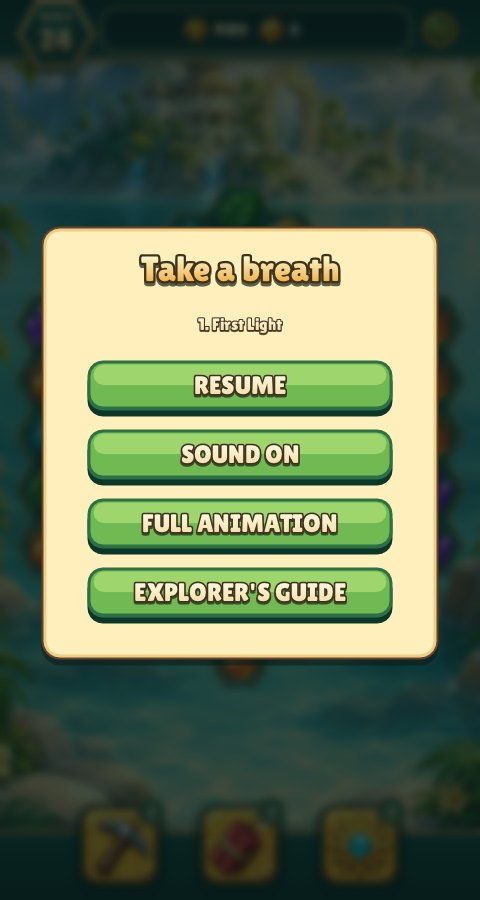
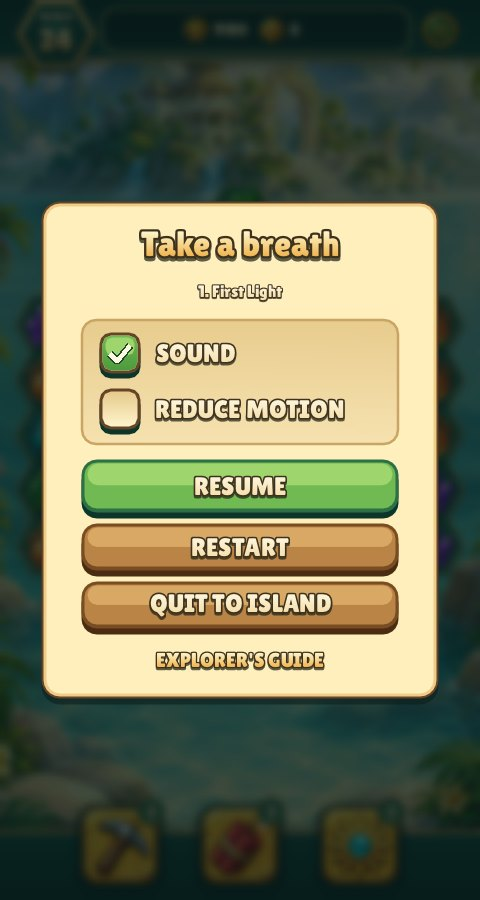
Regroup Relic Rush's Pause with checkboxes and a confirmed Restart
Pause follows other match-3 pause menus. Sound and Reduce motion become
engine checkboxes in a recessed settings well (a wooden-rimmed box that
fills with jade and a cream tick), RESUME stays jade, and RESTART and
QUIT TO ISLAND, which main added, become secondary wooden buttons, with
the guide as a gold link. Restart now asks first (a confirm dialog) and
starts the same expedition afresh; Quit keeps the unfinished board for
LEVEL or the Expeditions browser. The motion setting main removed
returns as the Reduce motion checkbox.

--smoke toggles Sound through real input, plays a move, cancels and
confirms a restart, quits without rewards, checks the island Pause and
resumes the board. The catalogue, the pause_menu manifest entry, the
rules, economy notes and README describe the grouped menu.

Claude-Session: https://claude.ai/code/session_01Gft4n2RKVSco3wyKcmtL47

diff --git a/games/relic-rush/docs/asset-catalogue.md b/games/relic-rush/docs/asset-catalogue.md
@@ -39,14 +39,16 @@ their existing artwork and state mapping. Reproduce with `--victory`,
 
 ## Pause menu actions
 
-`lua/screens.lua` uses the existing shared form skin for Resume, Restart, Sound,
-Explorer's Guide and Quit to Island. Restart resets the current puzzle; Quit to
-Island suspends it without paying rewards. Island Pause hides Restart and Quit.
-The animation toggle is removed. Both menus measure their content before
-centring, including the taller safe-area phone layout. Existing normal, hover,
-pressed, disabled and keyboard-focus button states are reused; no artwork,
-source prompt, runtime file or sprite transform is added. The menu contract is
-recorded in `art/board-states/manifest.json` under `pause_menu`.
+`lua/screens.lua` lays Pause out in groups, with the look in `lua/skin.lua`: a
+settings well holding the Sound and Reduce motion checkboxes, then Resume, then
+Restart and Quit to Island as secondary wooden buttons, and the guide as a link.
+Restart asks for confirmation and resets the current puzzle; Quit to Island
+suspends it without paying rewards. Island Pause hides Restart and Quit. (The
+motion toggle was removed once and returned as the Reduce motion checkbox.)
+Both menus measure their content before centring, including the taller
+safe-area phone layout. States are listed below with the checkbox and button
+variants; no artwork, source prompt, runtime file or sprite transform is added.
+The menu contract is recorded in `art/board-states/manifest.json` under `pause_menu`.
 
 Reproduce and inspect both contexts at both phone sizes with
 `python3 tests/fixtures/pause-actions/capture.py`; reviewed captures and exact
@@ -187,8 +189,9 @@ red and glows. The band, trim, plate and medallion are drawn with engine shapes
 (gradients, polygons); they are frames, not interaction states of an authored
 control, and the medallion has no pressed/hover states because it is read-only. No score total, level title,
 progress bar or island shortcut is displayed during an expedition. Level details
-are in Pause; results retain score/reward details. An unfinished round cannot
-return to the island. Win/failure screens provide the exit actions.
+are in Pause; results retain score/reward details. Pause's Restart (confirmed)
+and Quit to island (keeps the board) are the in-round exits; win/failure screens
+provide theirs.
 
 `art/expedition-hud/controls.png` contains **all seven new icons together in one
 built-in ImageGen call**. The exact prompt is
@@ -329,6 +332,29 @@ Jungle market sprite (`data/buildings/3.png`). Their pressed state shifts the fa
 they are always available. The EXPAND pill is gone: a region that can open now
 shows "+" and a glow on its fog marker, and its name is outlined text without a
 plate. [Island HUD captures](review/island-hud/README.md).
+
+The Pause menu's Sound and Reduce motion settings are engine `checkbox`
+controls drawn by `lua/skin.lua` (`controls.checkbox`): a 40-unit well in the
+panel's wooden rim on a jade shadow, filled with a jade face, gloss and a cream
+tick with a dark rim when checked. States: unchecked, checked, pressed (box and
+tick sink 2 units) and disabled (rim and fill turn grey; not used by the game).
+Hover looks like normal, as for every Relic Rush control, because touch has no
+hover. All of it is engine geometry, like the menu buttons, with no bitmap.
+Checked = sound on / motion reduced; the binding writes the setting at once.
+[Reviewed captures of every state](../../../docs/review/ui-skin-files/README.md#relic-rush-pause-checkboxes).
+`--smoke` clicks Sound off and on again through real input.
+
+Pause groups its controls, as pause menus in other match-3 games do. The two
+checkboxes sit in a recessed well (`controls.panel.variants.group`: a sand
+gradient with a darker rim). Below it come the jade RESUME and two secondary
+actions in carved wood (`controls.button.variants.secondary`, same layers and
+states as the jade button: pressed sinks 2 units, disabled drains it). EXPLORER'S
+GUIDE is a gold text link (`variants.link`: no layers; pressed moves the text).
+From the island Pause shows only Resume. RESTART opens a confirmation
+(`OV_CONFIRM`): RESTART in jade and KEEP PLAYING as a link, which returns to
+Pause. QUIT TO ISLAND keeps the unfinished board. All are engine geometry
+with no bitmap. Captures at both sizes, in the board and on the island, are in
+[the skin review](../../../docs/review/ui-skin-files/README.md#relic-rush-pause-grouped-with-restart-and-quit).
 
 Resource capsules, island HUD buttons, progress bars, menu buttons, result stars, placement outlines, land
 fog and dialogue chrome are intentional engine geometry/text; they are not gem

diff --git a/games/relic-rush/README.md b/games/relic-rush/README.md
@@ -104,13 +104,13 @@ Discovery Stars measure cumulative progress and are never spent. Compasses pay f
 
 See the [Playrix/Wooga economy study, budgets and automated audit](../../docs/ECONOMY_RESEARCH.md)
 and [reviewed reward, replay and shop screens](docs/review/economy/README.md).
-Pause offers **Resume**, **Restart**, **Sound**, **Explorer's Guide** and
-**Quit to Island**. Restart resets the current puzzle; quitting returns to the
-island without paying rewards. The expedition browser can resume that unfinished
-board during the same session. Island Pause offers Resume, Sound and the guide.
-The animation toggle has been removed. Closing the application still restarts
-the attempt; persistent saves contain the island and banked progress. See the
-[pause menu review](docs/review/pause-actions/README.md).
+Pause offers Resume, Restart and Quit to island. Restart asks first and starts
+the same expedition afresh (retrying is free). Quit keeps the unfinished board:
+the island's LEVEL button or the Expeditions browser continues it, until another
+expedition starts. Closing the application still restarts that attempt;
+persistent saves contain the island and banked progress. See the
+[pause menu review](docs/review/pause-actions/README.md) and the
+[grouped Pause review](../../docs/review/ui-skin-files/README.md#relic-rush-pause-grouped-with-restart-and-quit).
 
 ## Campaign: ten hex levels
 
@@ -184,7 +184,7 @@ A region must touch opened land, meet its Star requirement and have its Compass 
 - Ancient sand is excavated by matches above it. Chained and frozen relics cannot move until matched or hit. Double ice needs two hits. Matched flame relics also thaw adjacent ice.
 - Cascades increase score multipliers. Matched pieces animate toward score/objective readouts; the result screen separately explains the guaranteed grant and spare Gold.
 - Pickaxe, dynamite and sunburst tools: select a tool, then a board cell. Two charges per tool per level; no move cost. The guide explains mechanics.
-- Idle hints, automatic dead-board recovery, restart on failure, pause with Restart and Quit to Island, and a sound toggle.
+- Idle hints, automatic dead-board recovery, restart on failure, pause with Restart (confirmed), Quit to Island, and Sound and Reduce motion checkboxes.
 - First-clear grants fund the next building and leave 80–120 spare Gold. Completed expeditions can be replayed for 60–100 Gold. Each won attempt pays once; only first clears advance discoveries.
 - Large scrollable island, six connected land regions defined by a hidden hex tile graph. Drag the map to pan, even when the gesture starts on a building; pinch to zoom (or use the mouse wheel on desktop).
 - June's Journey-style expansion: adjacent clouded regions require cumulative Stars and spendable Compasses. First clears award 3 Stars and a scheduled Compass grant; replays award neither. Confirming a region consumes only Compasses; Stars remain. Region requirements and fog are separate from building placement.
@@ -221,7 +221,7 @@ Debug and capture options (no progress is written): `--level N`, `--city N` (an 
 
 ## Controls and saved progress
 
-- **Board:** swipe to one of six neighbors, or tap two adjacent relics. Select a tool and then its target. The top-right medallion pauses (level details, resume, restart, sound, guide, quit to island); Escape does the same. Quit to Island keeps the unfinished board available in the expedition browser without paying rewards. Tap outside a closable popup to dismiss it; results require an explicit action.
+- **Board:** swipe to one of six neighbors, or tap two adjacent relics. Select a tool and then its target. The top-right medallion pauses: level details, a Sound and Reduce motion group, Resume, Restart (asks first), Quit to island (keeps the board) and the guide; Escape does the same. Tap outside a closable popup to dismiss it; results require an explicit action.
 - **Island:** drag the map to pan, including from buildings; pinch or use the mouse wheel to zoom. Tap a building for its card, or hold it still for half a second to pick it up and move it. Tap clouded land to see what opening it needs.
 - **Placement:** choose a grassy spot, check the green/red footprint, then confirm or cancel. Buildings cannot overlap, cross the shoreline or occupy closed land. Moving a completed building is free.
 - **Save:** level progress, resources, opened regions and building positions persist; an unfinished puzzle restarts. Saves of the standalone prototype (`progress.txt`, `localStorage["relic-rush-v1"]`) are not imported.

diff --git a/docs/review/ui-skin-files/README.md b/docs/review/ui-skin-files/README.md
@@ -62,3 +62,40 @@ on Nile pills (green, blue, disabled grey, reward) and 2 on Volcano buttons
 | Nile chapters | ![Before](before-nile-archive-chapters.jpg) | ![After](after-nile-archive-chapters.jpg) |
 | Nile chapters, green pill held | ![Before](before-nile-archive-chapters-press-green.jpg) | ![After](after-nile-archive-chapters-press-green.jpg) |
 | Nile build tray | ![Before](before-nile-archive-build.jpg) | ![After](after-nile-archive-build.jpg) |
+
+## Relic Rush: Pause checkboxes
+
+Sound and Reduce motion were toggle buttons whose captions flipped
+("SOUND ON" / "FULL ANIMATION"). They are now `checkbox` controls with the
+skin's wooden-rimmed well, which fills with jade and a cream tick when checked.
+Only these two rows changed; every other Relic Rush capture is identical.
+
+| Size | Before | After |
+| --- | --- | --- |
+| 480×900 | ![Before](before-relic-pause-checkbox-480x900.jpg) | ![After](after-relic-pause-checkbox-480x900.jpg) |
+| 390×844 | ![Before](before-relic-pause-checkbox-390x844.jpg) | ![After](after-relic-pause-checkbox-390x844.jpg) |
+
+| Reduce motion on | Sound held (pressed) | Disabled (not used in game) |
+| --- | --- | --- |
+| ![Both checked](after-relic-pause-checkbox-motion.jpg) | ![Pressed](after-relic-pause-checkbox-pressed.jpg) | ![Disabled](after-relic-pause-checkbox-disabled.jpg) |
+
+## Relic Rush: Pause grouped, with Restart and Quit
+
+Pause now follows other match-3 pause menus. Sound and Reduce motion share one
+recessed settings well. Below it come RESUME in jade, then RESTART and QUIT TO
+ISLAND in carved wood; EXPLORER'S GUIDE is a gold text link. RESTART asks first
+and starts the same expedition afresh. QUIT TO ISLAND keeps the unfinished board
+for the island's LEVEL button or the Expeditions browser. From the island, Pause
+shows only Resume. `--smoke` cancels and confirms a restart, quits to the island
+and resumes the board through real input.
+
+| | 480×900 | 390×844 |
+| --- | --- | --- |
+| Before (`main`) | ![Before](before-relic-pause-checkbox-480x900.jpg) | ![Before](before-relic-pause-checkbox-390x844.jpg) |
+| Pause in an expedition | ![Pause](after-relic-pause-grouped-480x900.jpg) | ![Pause](after-relic-pause-grouped-390x844.jpg) |
+| Pause on the island | ![Island](after-relic-pause-island-480x900.jpg) | ![Island](after-relic-pause-island-390x844.jpg) |
+| Restart confirmation | ![Confirm](after-relic-restart-confirm-480x900.jpg) | ![Confirm](after-relic-restart-confirm-390x844.jpg) |
+
+| RESTART held (pressed) |
+| --- |
+| ![Pressed](after-relic-pause-restart-pressed.jpg) |

diff --git a/games/relic-rush/docs/match4-rules.md b/games/relic-rush/docs/match4-rules.md
@@ -10,7 +10,7 @@ This supersedes the prototype's earlier straight-line match-3 rules.
 - Four clears normally; five leaves a directional ray; six or more leaves a bomb, with a prism for a straight run of six. A ray follows the longest straight axis of the matched component.
 - Existing specials, combos, fire thawing, ice layers, chains, excavation and tools retain their respective effects.
 - A ready group is checked on the idle board before hints/input and after every completed fall. All cascade waves finish before victory/failure is checked. Automatic waves do not spend additional moves.
-- The expedition HUD is one band along the top edge: a hexagonal Moves medallion, the remaining score/idol/sand/lock objectives as icons with counts beside them, and Pause. Absent objectives are omitted; completed objectives dim and show a check seal. The tools sit in a matching tray along the bottom edge; the Explorer's Guide opens from Pause. See [match-3 HUD review](review/match3-hud/README.md). An unfinished round stays on its board until win/loss. Pause resumes it; required results need their explicit actions. See [header and popup review](review/expedition-header/README.md).
+- The expedition HUD is one band along the top edge: a hexagonal Moves medallion, the remaining score/idol/sand/lock objectives as icons with counts beside them, and Pause. Absent objectives are omitted; completed objectives dim and show a check seal. The tools sit in a matching tray along the bottom edge; the Explorer's Guide opens from Pause. See [match-3 HUD review](review/match3-hud/README.md). Pause resumes the round, restarts it after a confirmation, or quits to the island keeping the board for LEVEL / Expeditions to continue; required results need their explicit actions. See [header and popup review](review/expedition-header/README.md).
 - Hints highlight a legal swap after five idle seconds. If the hint search finds no swap, idle boards use the same free reshuffle as boards settling after a fall, with a “No moves. Board reshuffled.” notice. Recovery resets selection/tool targeting and stale hints, preserving move/tool budgets, objective progress, holes, sand, ice, chains and their locked relics. Victory and exhausted moves take precedence over reshuffling.
 
 The old detector considered only straight runs. Visually connected bent/compact groups were therefore ignored. Detection now walks the entire six-neighbor component. In addition, the idle animation state actively checks ready groups rather than relying solely on the previous swap/collapse transition.

diff --git a/docs/UI_ENGINE.md b/docs/UI_ENGINE.md
@@ -258,7 +258,9 @@ fonts can load; its colours are checked when the skin is compiled.
 
 Relic Rush keeps its entire look in `lua/skin.lua`: four outlined text palettes,
 the parchment panel, the jade button (pressed sinks it 2 units; disabled drains
-its colour), the flat CLOSE variant and the focus ring. Its pause, building,
+its colour), the flat CLOSE variant and the focus ring. Its Pause menu uses the `checkbox`
+control for Sound and Reduce motion: a wooden-rimmed well that fills with jade
+and a cream tick, bound to the game's settings. Its pause, building,
 guide, shop and expedition dialogs and its island buttons all paint through it;
 captures are pixel-identical to the hand-written paint code it replaced.
 
@@ -266,7 +268,7 @@ Every game now has one skin file:
 
 | Game | Skin file | What it holds |
 | --- | --- | --- |
-| Relic Rush | `games/relic-rush/lua/skin.lua` | Outlined palettes, parchment panel, jade button, flat variant, focus ring |
+| Relic Rush | `games/relic-rush/lua/skin.lua` | Outlined palettes, parchment panel, jade button, flat variant, focus ring, and the Pause checkboxes (Sound, Reduce motion) |
 | Nile Archive | `games/nile-archive/lua/archive_skin.lua` | Three fonts with a fallback, 21 text styles, the theme, the gold-rimmed teal/parchment frame at any radius (corner studs as a `paint` layer) and green/blue/red pills whose disabled state turns grey |
 | Volcano | `games/volcano/lua/volcano_skin.lua` | Lilita palettes at any size, the theme, and the panel, button (hover, pressed, disabled, gold accent) and meters that native widgets used to draw |
 

diff --git a/docs/ECONOMY_RESEARCH.md b/docs/ECONOMY_RESEARCH.md
@@ -130,8 +130,9 @@ first-clear surplus covers several small decorative choices immediately. The
 expedition browser exposes completed, current and future stages; the current
 discovery waits for the earned restoration, while completed stages remain
 available for earning. The finale now has a useful play-for-Gold route.
-An unfinished expedition stays on its board until win/loss; Pause resumes the
-same board and moves, with no island shortcut. An unfinished board still restarts after closing the
+Pause resumes the same board and moves, restarts it after a confirmation (a
+free retry, like a failure), or quits to the island keeping the unfinished board
+for the next LEVEL / Expeditions visit; neither pays anything. An unfinished board still restarts after closing the
 application, as in the existing save contract; board persistence is separate work.
 
 ## Nile Archive: implemented budget
